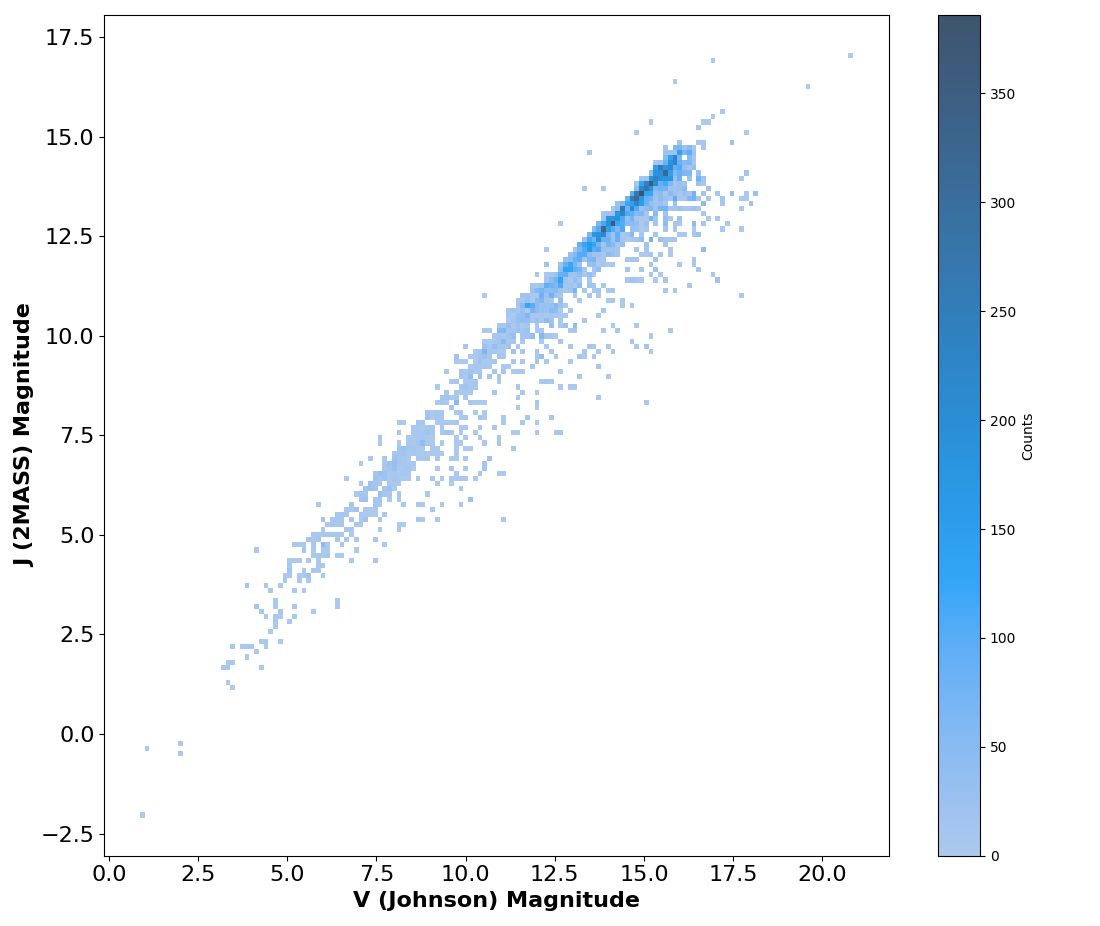
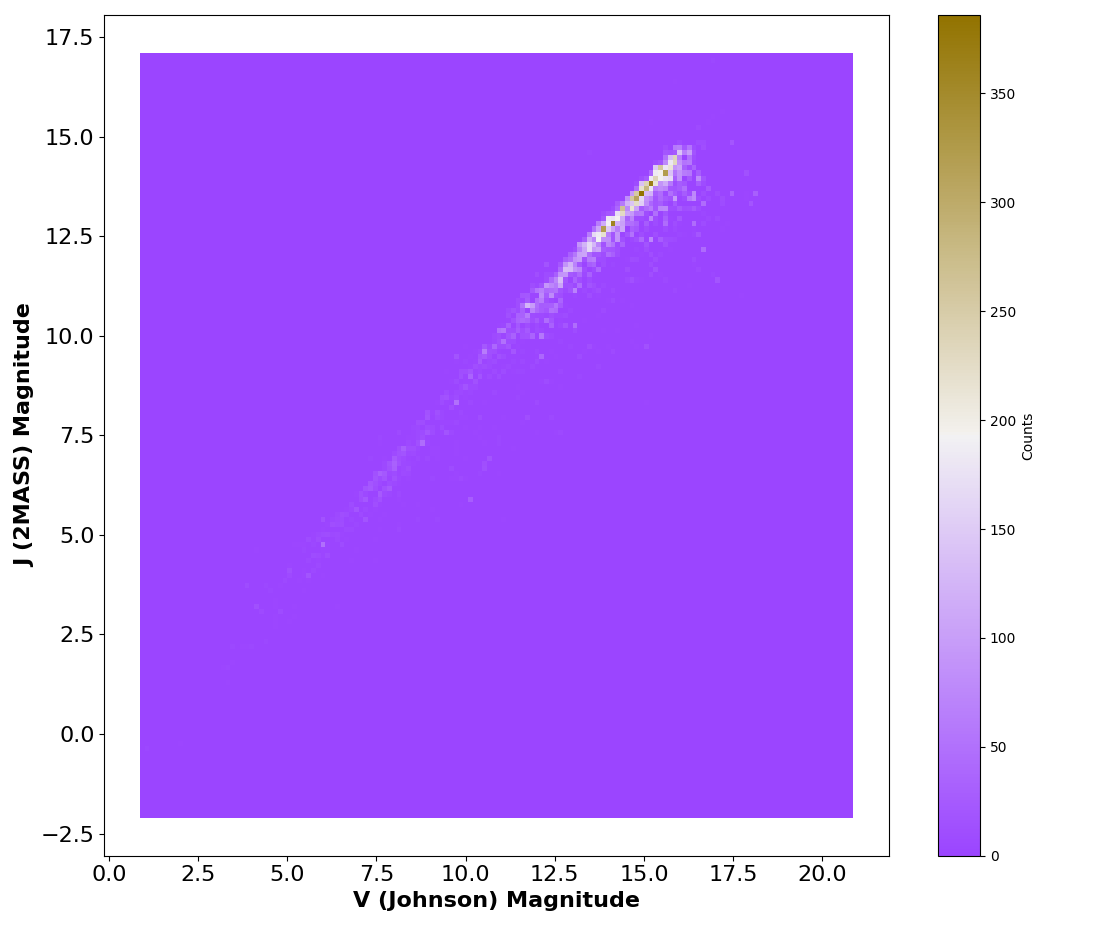
hist2d seaborn fix

diff --git a/Plot_types/Density/Density_2D/Density_2D_Python_plotly.py b/Plot_types/Density/Density_2D/Density_2D_Python_plotly.py
@@ -1,0 +1,73 @@
+
+# Paths:
+path_data = "data/"
+
+# Packages:
+import numpy as np
+import pandas as pd
+import plotly.graph_objects as go
+from matplotlib.colors import LinearSegmentedColormap, to_hex
+
+# Display options:
+pd.set_option("display.width", 1200)
+pd.set_option("display.max_columns", 300)
+pd.set_option("display.max_rows", 300)
+
+# Dataset:
+df = pd.read_csv(path_data + "nasa_exoplanets.csv")
+df_varnames = pd.read_csv(path_data + "nasa_exoplanets_var_names.csv")
+
+# Variables:
+x_var = "sy_vmag"
+x_var_name = df_varnames.loc[(df_varnames["var"] == x_var), ["var_name"]].values[0][0]
+y_var = "sy_jmag"
+y_var_name = df_varnames.loc[(df_varnames["var"] == y_var), ["var_name"]].values[0][0]
+
+# Adapt the data:
+df_plot = df[[x_var, y_var]]
+
+# Deal with nan:
+df_plot = df_plot.dropna()
+
+# Plot:
+n_binsxy = 150
+cmap = LinearSegmentedColormap.from_list("my_palette",
+                                         ["#000000", "#E008F8", "#F81D08", "#F88A08", "#F7FE04"])
+my_palette = [to_hex(j) for j in  [cmap(i/n_binsxy) for i in np.array(range(n_binsxy))]]
+
+fig = go.Figure(
+    data = [
+        go.Histogram2d(
+            x = df_plot[x_var],
+            y = df_plot[y_var],
+            histfunc = "count",
+            nbinsx = n_binsxy,
+            nbinsy = n_binsxy,
+            colorscale = my_palette,
+            hovertemplate = "<b>" +
+                            x_var_name + ": %{x:,}<br>" +
+                            y_var_name + ": %{y:,}</br>" +
+                            "Counts: %{z:, }</b><extra></extra>",
+            colorbar = dict(
+                title = "<b>Counts</b>"
+            )
+        )
+    ]
+)
+fig.update_layout(
+    height = 800,
+    width = 800,
+    xaxis_title = "<b>" + x_var_name + "</b>" ,
+    yaxis_title = "<b>" + y_var_name + "</b>",
+    font = dict(
+        size = 18
+    ),
+    plot_bgcolor = "white",
+    hoverlabel = dict(
+        font_size = 18,
+        font_family = "Rockwell"
+    )
+)
+fig.show()
+
+

diff --git a/Plot_types/Histogram/Histogram_2D/Histogram_2D_Python_seaborn.py b/Plot_types/Histogram/Histogram_2D/Histogram_2D_Python_seaborn.py
@@ -7,7 +7,7 @@ import numpy as np
 import pandas as pd
 import seaborn as sns
 import matplotlib.pyplot as plt
-from matplotlib.colors import LinearSegmentedColormap
+from matplotlib.colors import LinearSegmentedColormap, Colormap
 
 # Display options:
 pd.set_option("display.width", 1200)
@@ -32,10 +32,14 @@ df_plot = df_plot.dropna()
 
 # Plot:
 n_binsxy = 150
-cmap = LinearSegmentedColormap.from_list("my_palette",
-                                         ["#000000", "#E008F8", "#F81D08", "#F88A08", "#F7FE04"])
-my_palette = [cmap(i/n_binsxy) for i in np.array(range(n_binsxy))]
-
+# To choose to palette params, use sns.choose_diverging_palette() in IPython notebook.
+my_palette = sns.diverging_palette(h_neg = 278,
+                                   h_pos = 63,
+                                   s = 100,
+                                   l = 50,
+                                   sep = 1,
+                                   center = "light",
+                                   as_cmap = True)
 fig, ax = plt.subplots(
     figsize = (11, 10),
     tight_layout = True
@@ -48,9 +52,11 @@ _ = sns.histplot(
     bins = (n_binsxy, n_binsxy),
     legend = True,
     cbar = True,
+    thresh = -0.01,
+    cbar_kws = {"label": "Counts"},
+    cmap = my_palette,
     ax = ax
 )
-_ = ax.collections[0].colorbar.set_label("Counts")
 _ = ax.set_xlabel(
     x_var_name,
     fontsize = 16,
